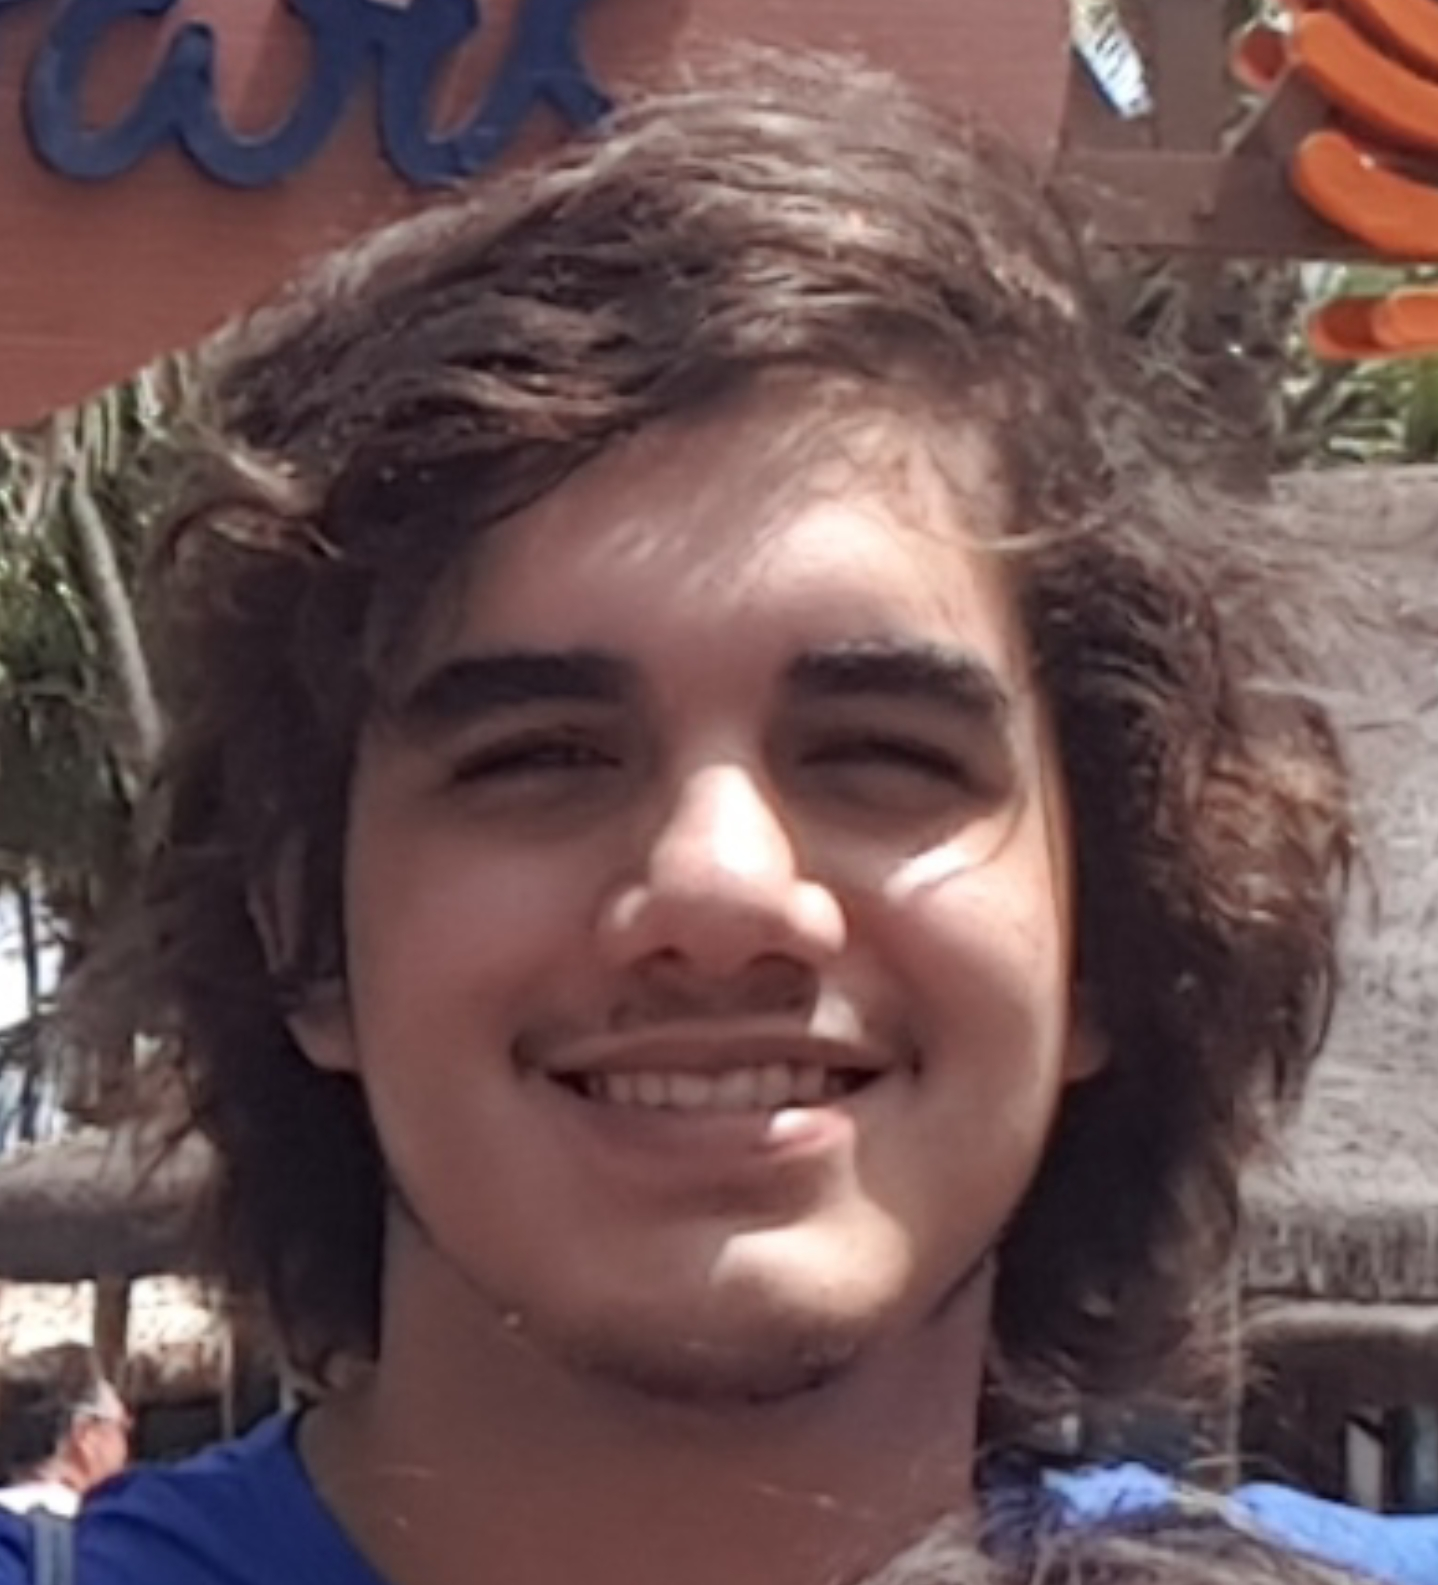
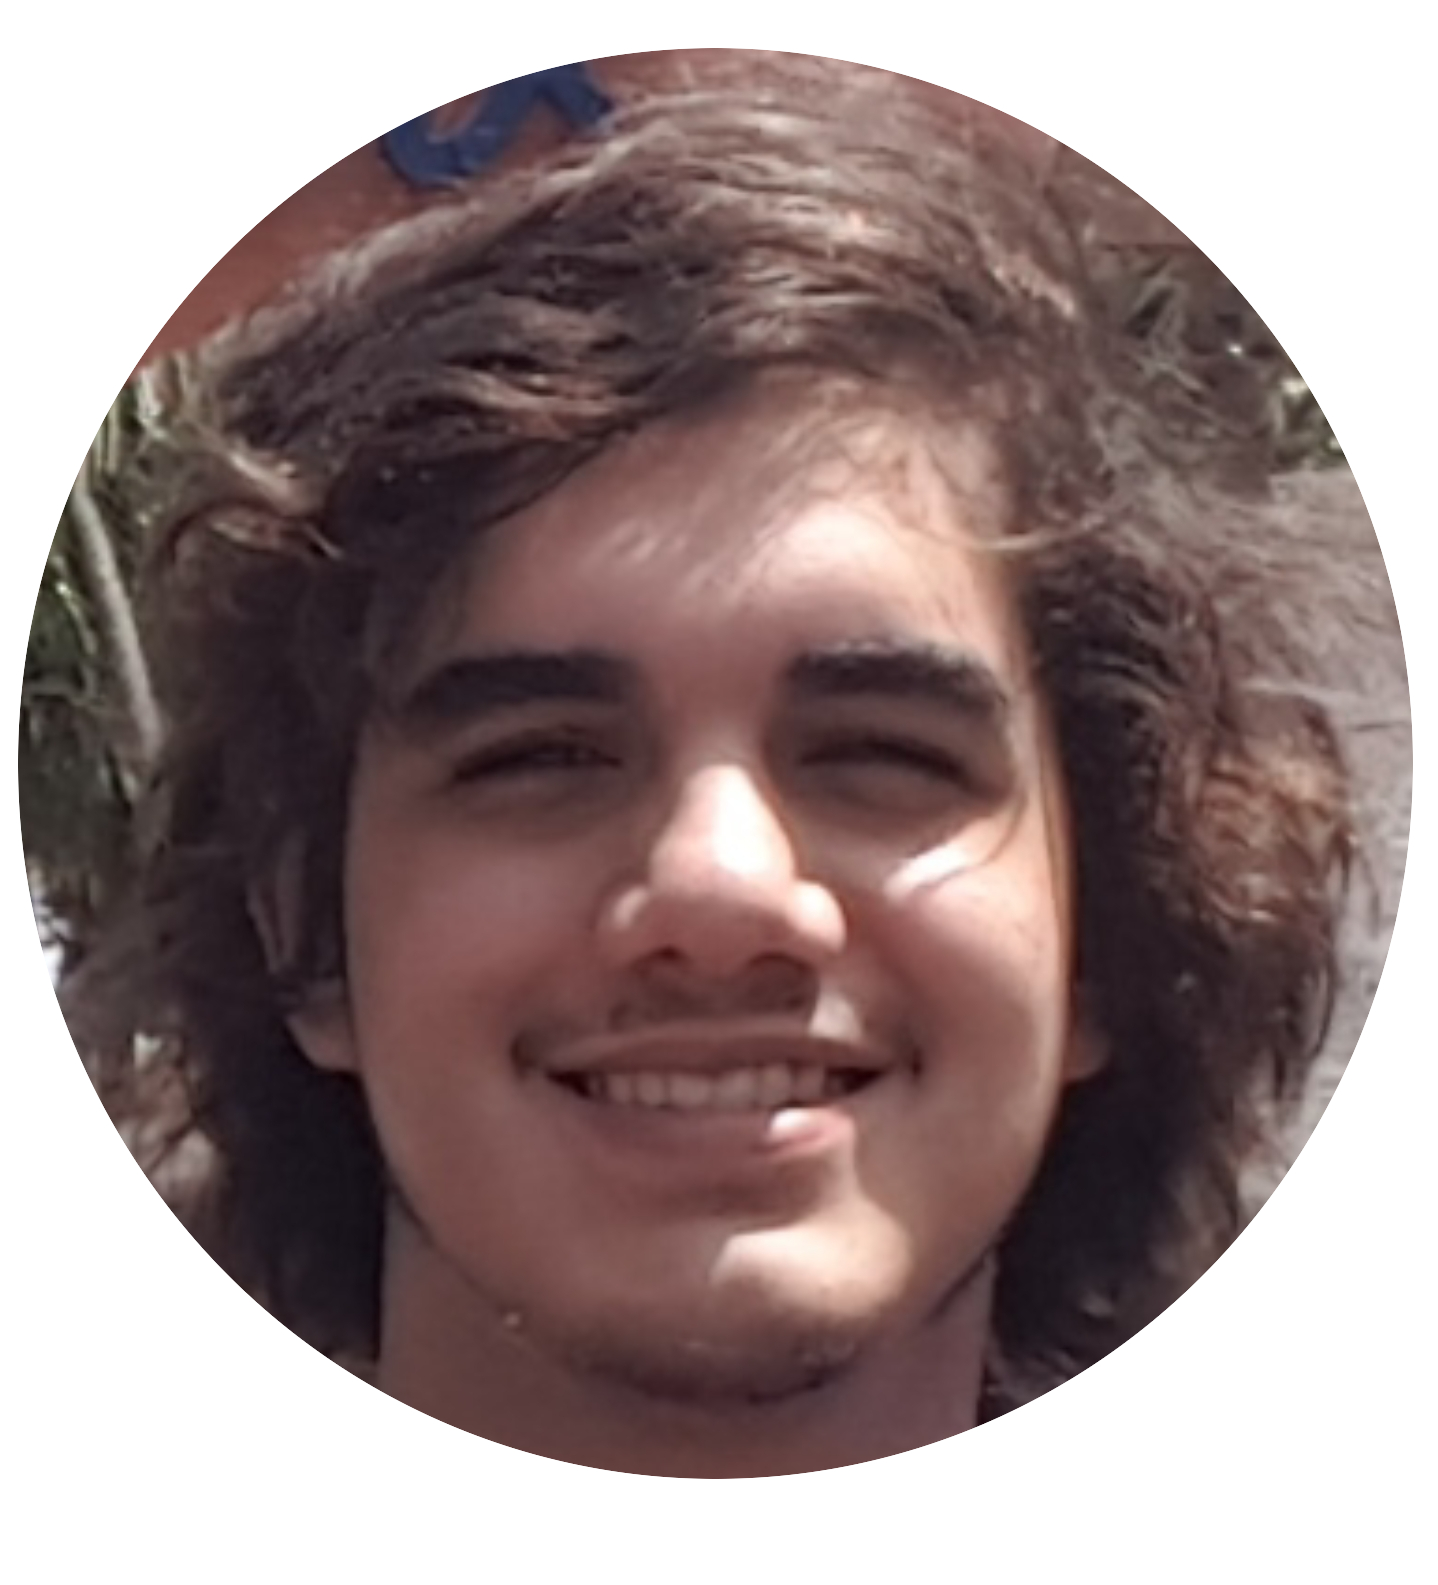
1.3 imagem circular

diff --git a/assets/css/style.css b/assets/css/style.css
@@ -5,9 +5,10 @@ body {
 	justify-content: space-around;
 	height: 600px;
 	align-content: space-around;
+	font-family: 'Roboto', sans-serif;
 }
 article {
-	width: 400px;
+	width: 300px;
 	height: 300px;
 }
 footer {
@@ -24,6 +25,10 @@ article img {
 	width: auto;
 }
 @media all and (max-width: 600px){
+	aside {
+		font-size: 70%;
+		margin-bottom: 0px;
+	}
 	article {
 		width: 160px;
 		height: 120px;

diff --git a/index.html b/index.html
@@ -4,6 +4,7 @@
 		<meta charset="UTF-8">
 		<title>Rodrigo Falcão</title>
 		<link rel="stylesheet" type="text/css" href="assets/css/style.css">
+		<link href="https://fonts.googleapis.com/css?family=Roboto" rel="stylesheet">
 	</head>
 	<body>
 		<article class="foto">
